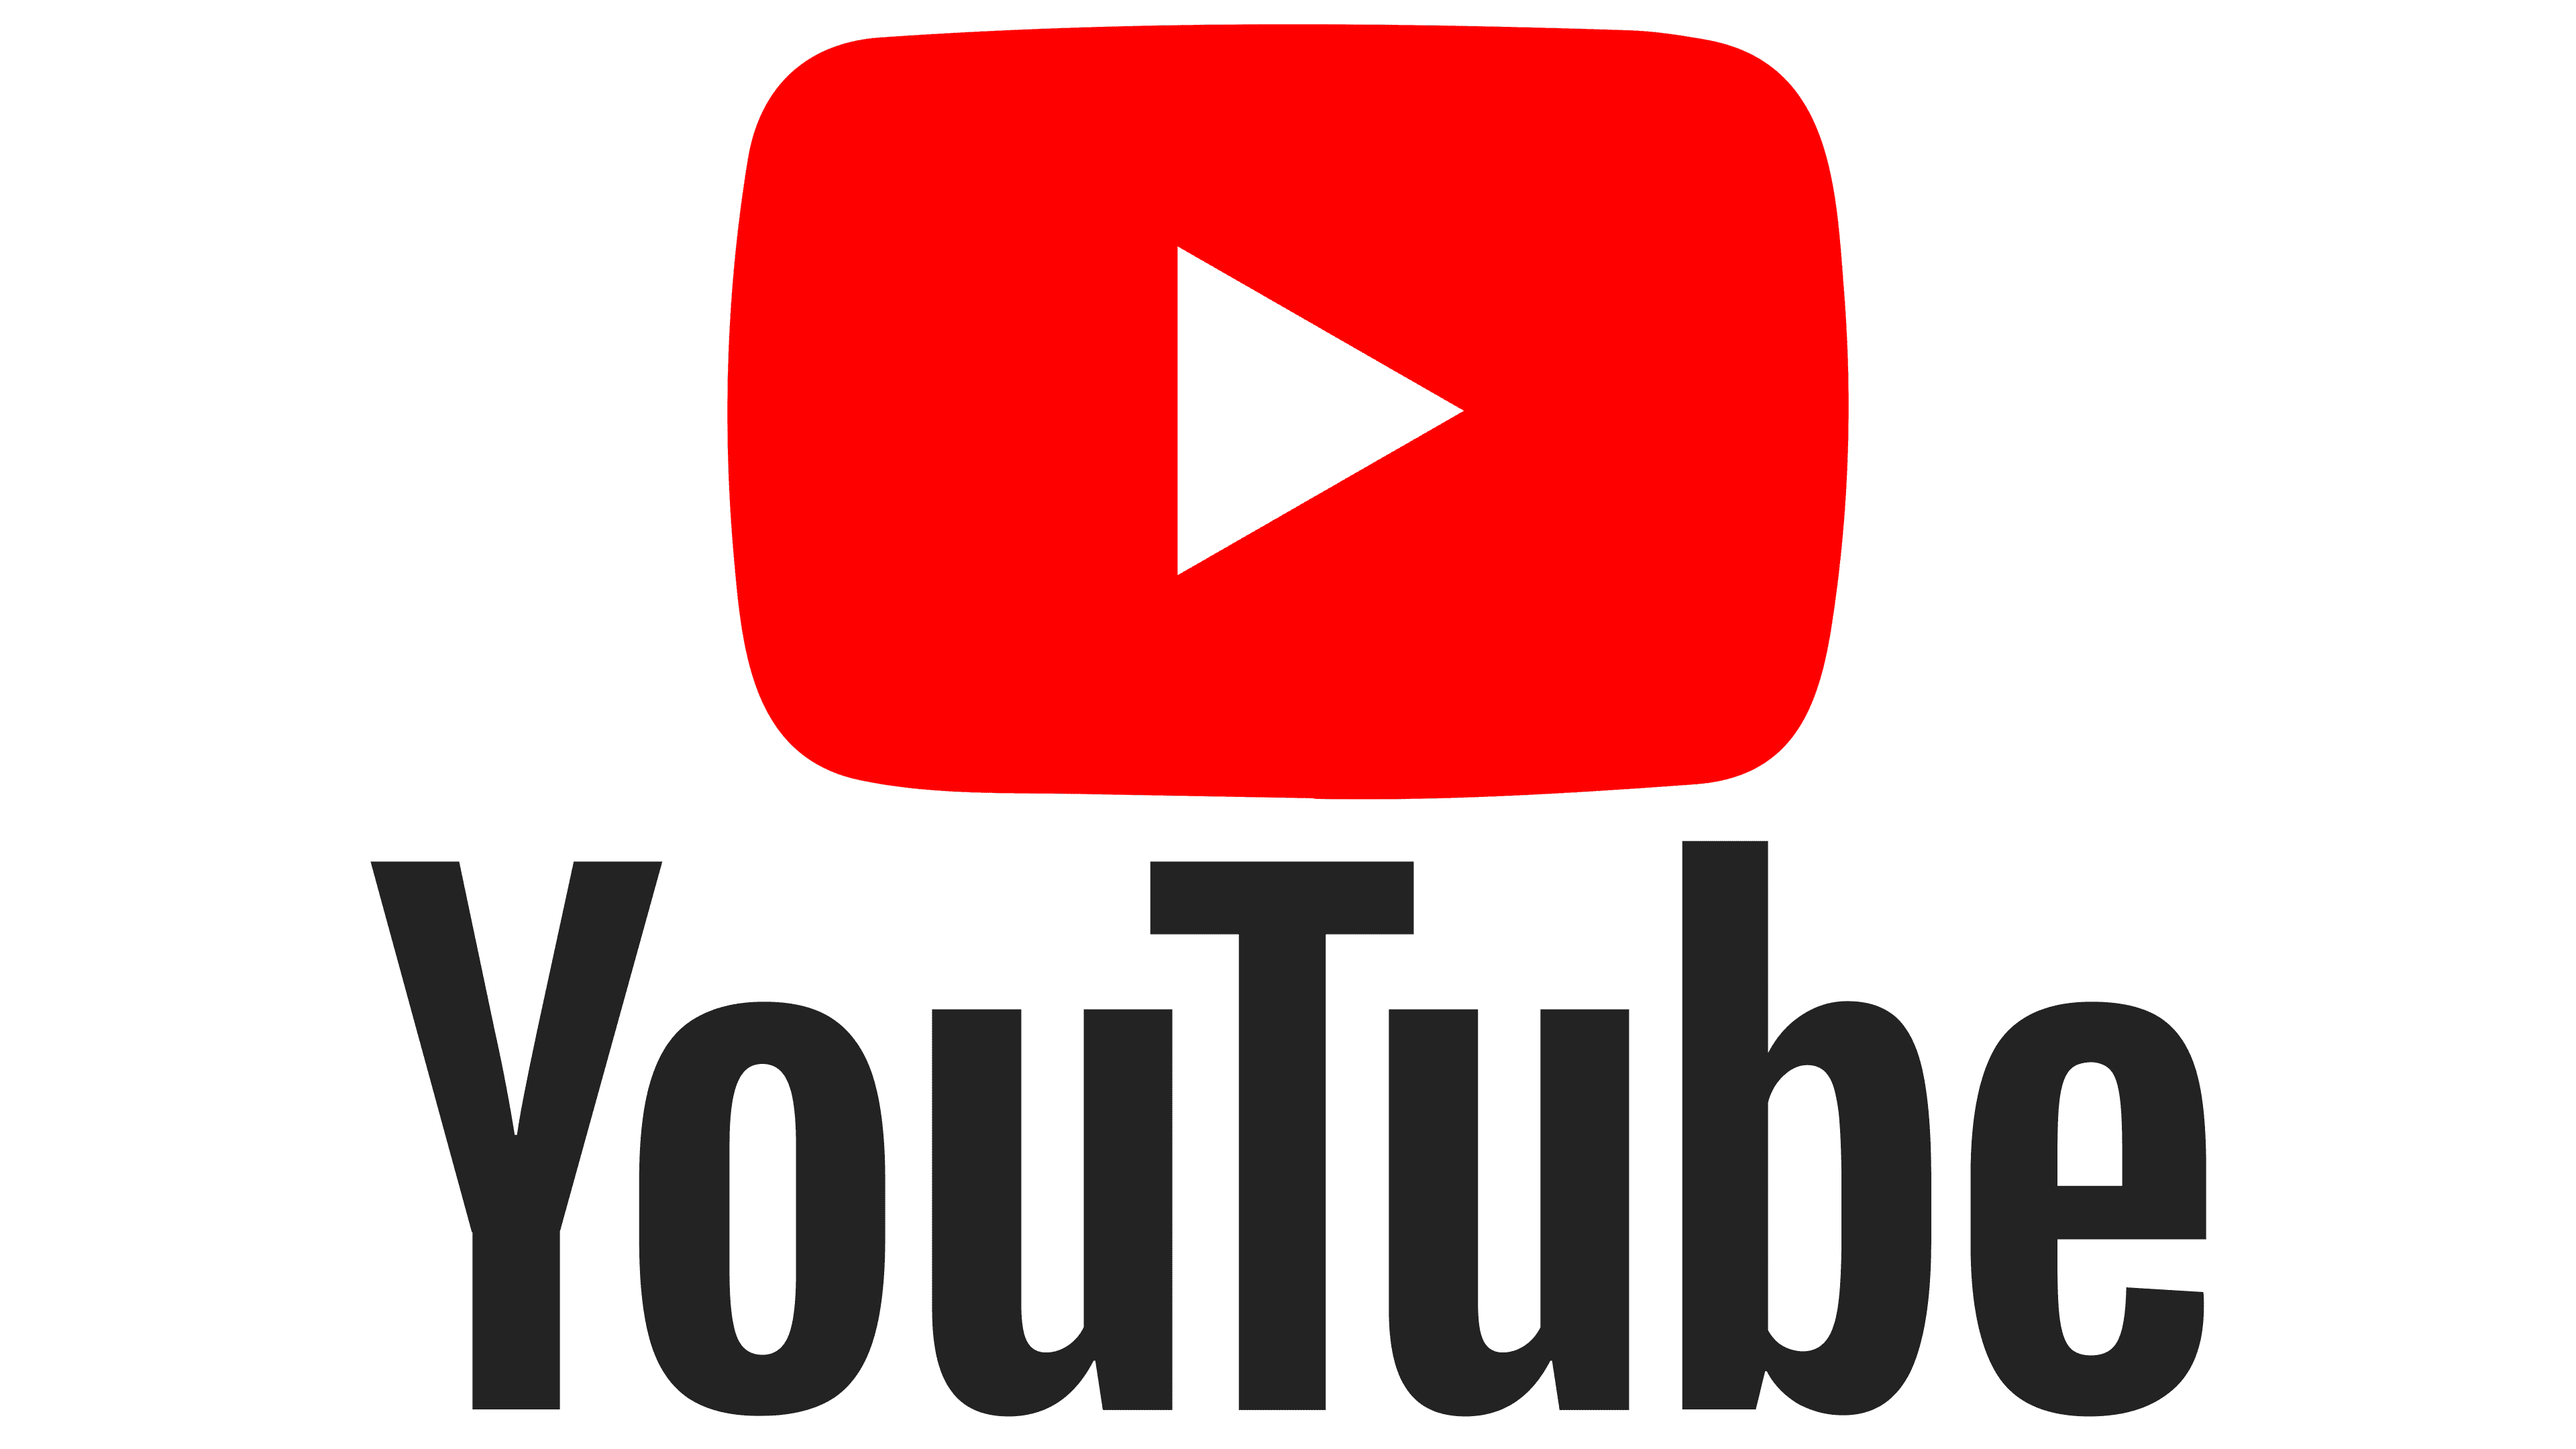
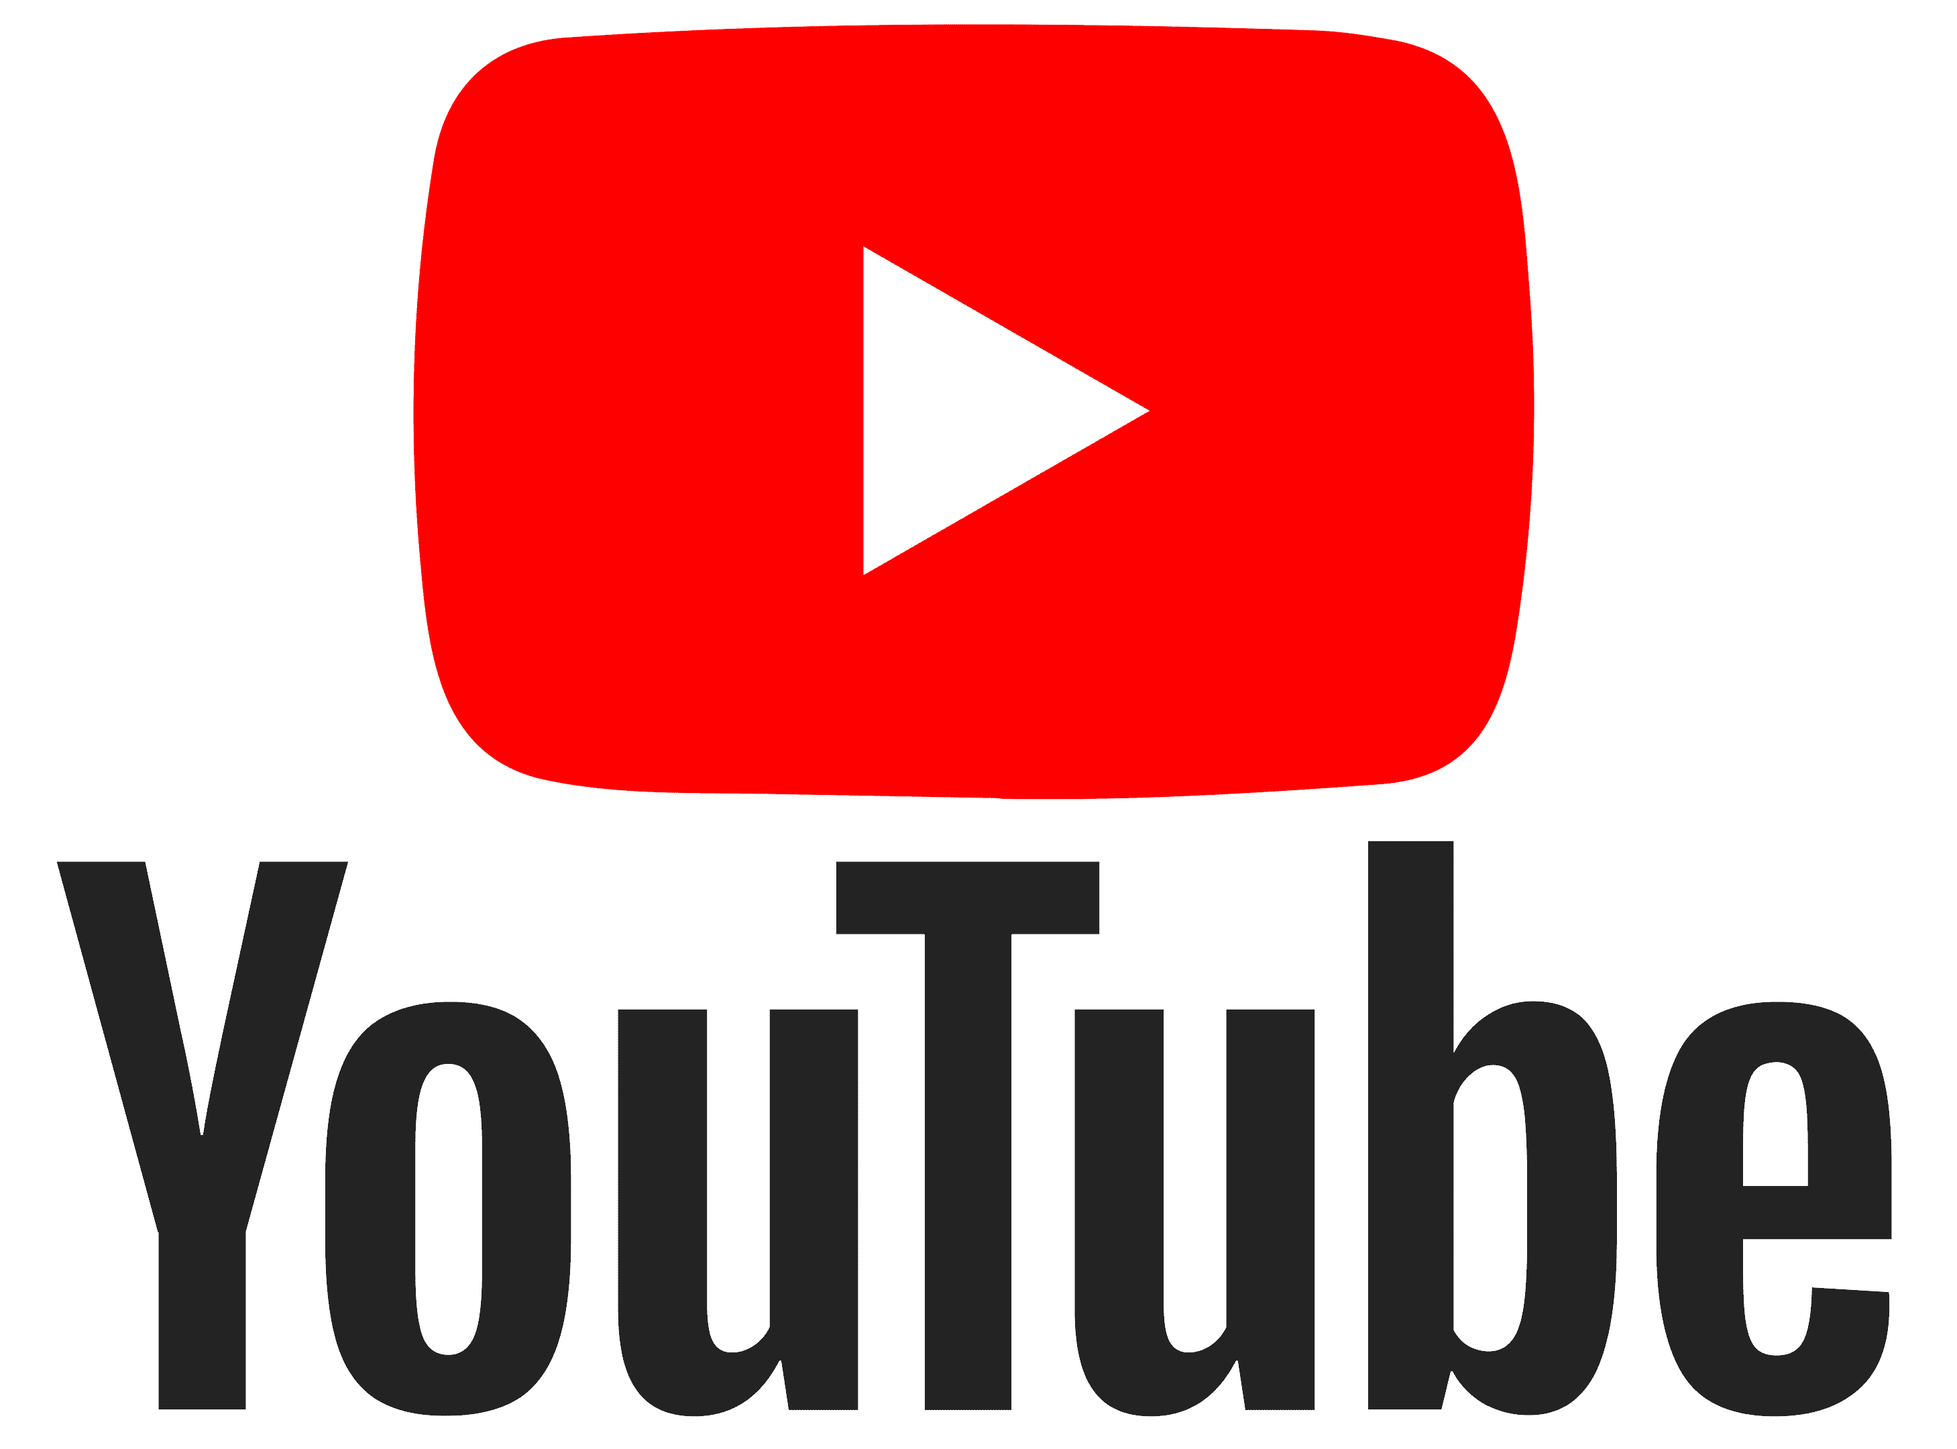
always use square canvas

diff --git a/main.js b/main.js
@@ -4,6 +4,7 @@ Add GUI toggle for canvas background color
 Ability to export with transparent background?
 Additional noise / distortion styles or parameters
 Can the input image be adjusted automatically to be square dimension (add transparent background at the edges to make it square?)
+Fix edge pixelation / aliasing?
 */
 
 // Global variables for WebGL
@@ -15,7 +16,7 @@ let logoAspectRatio = 1.0;
 let gui;
 
 //const MAX_DIMENSION = Math.min(1200, window.innerWidth);
-const MAX_DIMENSION = 1200;
+const MAX_DIMENSION = 1024;
 
 // Animation state
 let animationFrameId;
@@ -53,42 +54,56 @@ function resizeAndCreateLogoTexture(originalImage) {
     console.log(`Original image: ${originalWidth}x${originalHeight}, aspect ratio: ${originalAspect}`);
         
     // Calculate target dimensions while preserving aspect ratio exactly
-    let targetWidth, targetHeight;
+    let imageTargetWidth, imageTargetHeight;
     
     if (originalWidth >= originalHeight) {
         // Landscape orientation (width >= height)
-        targetWidth = Math.min(originalWidth, MAX_DIMENSION);
-        targetHeight = Math.round(targetWidth / originalAspect);
+        imageTargetWidth = Math.min(originalWidth, MAX_DIMENSION);
+        imageTargetHeight = Math.round(imageTargetWidth / originalAspect);
     } else {
         // Portrait orientation (height > width)
-        targetHeight = Math.min(originalHeight, MAX_DIMENSION);
-        targetWidth = Math.round(targetHeight * originalAspect);
+        imageTargetHeight = Math.min(originalHeight, MAX_DIMENSION);
+        imageTargetWidth = Math.round(imageTargetHeight * originalAspect);
     }
 
     // Adjust dimensions to be divisible by 4
-    targetWidth = Math.floor(targetWidth / 4) * 4;
-    targetHeight = Math.floor(targetHeight / 4) * 4;
+    imageTargetWidth = Math.floor(imageTargetWidth / 4) * 4;
+    imageTargetHeight = Math.floor(imageTargetHeight / 4) * 4;
     
     // Make sure we have at least 4x4 pixels
-    targetWidth = Math.max(targetWidth, 4);
-    targetHeight = Math.max(targetHeight, 4);
+    imageTargetWidth = Math.max(imageTargetWidth, 4);
+    imageTargetHeight = Math.max(imageTargetHeight, 4);
     
-    console.log(`Target dimensions: ${targetWidth}x${targetHeight}, resulting aspect: ${targetWidth/targetHeight}`);
+    // Determine the square canvas size (use the larger dimension)
+    const squareSize = Math.max(imageTargetWidth, imageTargetHeight);
     
-    // Set canvas size to exactly match these dimensions
-    canvas.width = targetWidth;
-    canvas.height = targetHeight;
-    gl.viewport(0, 0, targetWidth, targetHeight);
+    // Ensure square size is divisible by 4
+    const adjustedSquareSize = Math.ceil(squareSize / 4) * 4;
+    
+    // Calculate centering offsets to position the image in the middle of the square canvas
+    const offsetX = Math.floor((adjustedSquareSize - imageTargetWidth) / 2);
+    const offsetY = Math.floor((adjustedSquareSize - imageTargetHeight) / 2);
+    
+    console.log(`Image target dimensions: ${imageTargetWidth}x${imageTargetHeight}`);
+    console.log(`Square canvas size: ${adjustedSquareSize}x${adjustedSquareSize}`);
+    console.log(`Centering offsets: X=${offsetX}, Y=${offsetY}`);
+    
+    // Set canvas size to square dimensions
+    canvas.width = adjustedSquareSize;
+    canvas.height = adjustedSquareSize;
+    gl.viewport(0, 0, adjustedSquareSize, adjustedSquareSize);
     
     // Create a temporary canvas for resizing
     const tempCanvas = document.createElement('canvas');
     const ctx = tempCanvas.getContext('2d');
-    tempCanvas.width = targetWidth;
-    tempCanvas.height = targetHeight;
+    tempCanvas.width = adjustedSquareSize;
+    tempCanvas.height = adjustedSquareSize;
     
-    // Clear and draw image at exact dimensions
-    ctx.clearRect(0, 0, targetWidth, targetHeight);
-    ctx.drawImage(originalImage, 0, 0, targetWidth, targetHeight);
+    // Set transparent background
+    ctx.clearRect(0, 0, adjustedSquareSize, adjustedSquareSize);
+    
+    // Draw image centered in the square canvas
+    ctx.drawImage(originalImage, offsetX, offsetY, imageTargetWidth, imageTargetHeight);
     
     // Create WebGL texture
     if (!gl) return;
@@ -110,7 +125,6 @@ function resizeAndCreateLogoTexture(originalImage) {
     
     // Upload the canvas content to the texture
     gl.texImage2D(gl.TEXTURE_2D, 0, gl.RGBA, gl.RGBA, gl.UNSIGNED_BYTE, tempCanvas);
-    
 }
 
 // Initialize the application

diff --git a/styles.css b/styles.css
@@ -46,7 +46,8 @@ html, body{
   /* border: 1px solid gray; */
   /* background: rgb(0, 0, 0); */
   box-shadow: 0 0 10px rgba(255, 255, 255, 0.3);
-  max-width: calc(90vw - 10px);
+  width: min(85vw, 1000px);
+  /* max-width: 1000px; */
   /* max-height: calc(100vh - 80px); */
 }
 
